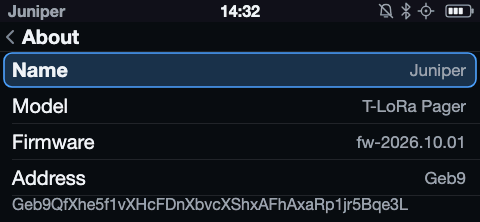
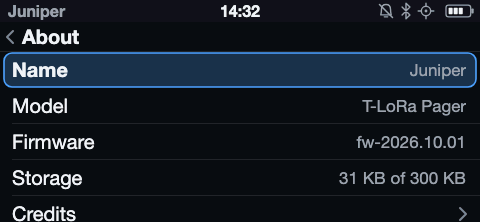
Drop the address from About; draw Credits entries through Lazy
Device › Identity already shows the address, and a hint beside its own
address says nothing more. Credits entries, wrapped text that can run
past the screen, are kept as their strings rather than as render trees.

LLM: Claude Opus 5.5

diff --git a/crates/umsh-ux-communicator/src/ui/about.rs b/crates/umsh-ux-communicator/src/ui/about.rs
@@ -2,6 +2,7 @@
 //! firmware is built from.
 
 use buoyant::focus::FocusKey;
+use buoyant::view::Lazy;
 use buoyant::view::prelude::*;
 use embedded_graphics::pixelcolor::Rgb565;
 use heapless::{String, Vec};
@@ -13,8 +14,6 @@ use crate::nav::keys;
 use crate::{font, models, theme};
 
 const ROW: u32 = 36;
-/// The address's lines, and their inset.
-const ADDRESS: u32 = 22;
 const INSET: u32 = 12;
 const RADIUS: u16 = 8;
 
@@ -60,7 +59,6 @@ static INDICES: [usize; LICENSES] = {
 pub fn view(state: &State) -> impl View<Rgb565, State> + use<> {
     let m = state.metrics();
     let about = state.node.about();
-    let address = state.node.address();
     let mut storage: String<24> = String::new();
     _ = core::fmt::write(
         &mut storage,
@@ -78,17 +76,6 @@ pub fn view(state: &State) -> impl View<Rgb565, State> + use<> {
                 models::name(state.board.model).unwrap_or_default(),
             ),
             readout("Firmware", keys::ABOUT_FIRMWARE, state.firmware),
-            readout("Address", keys::ABOUT_ADDRESS, &about.hint),
-            super::address(
-                &address,
-                &font::REGULAR,
-                m.small,
-                theme::TEXT_SECONDARY,
-                m.width - 2 * INSET,
-                ADDRESS,
-            )
-            .padding(Edges::Leading, INSET)
-            .padding(Edges::Bottom, 4),
             readout("Storage", keys::ABOUT_STORAGE, &storage),
             row(
                 m,
@@ -144,8 +131,6 @@ pub fn credits(state: &State) -> impl View<Rgb565, State> + use<> {
 
 /// An entry of the credits: `name`, and below it `body`'s lines, which
 /// wrap. It takes focus so the wheel passes through it.
-// Out of line, as `setting::row` is, against the Xtensa back end's failure.
-#[inline(never)]
 fn entry(
     m: &'static Metrics,
     name: &'static str,
@@ -154,53 +139,60 @@ fn entry(
 ) -> impl View<Rgb565, State> + use<> {
     Button::new(
         |_: &mut State| {},
-        move |button: ButtonState| {
-            let focused = button.is_focused();
-            let face = if focused { &font::BOLD } else { &font::REGULAR };
-            VStack::new((
-                Text::new(name, face)
-                    .with_font_size(m.body)
-                    .foreground_color(theme::TEXT),
-                Text::new(body, &font::REGULAR)
-                    .with_font_size(m.small)
-                    .foreground_color(theme::TEXT_SECONDARY),
-            ))
-            .with_alignment(HorizontalAlignment::Leading)
-            .with_spacing(2)
-            .flex_infinite_width(HorizontalAlignment::Leading)
-            .hint_background_color(if focused {
-                theme::FOCUS
-            } else {
-                theme::BACKGROUND
-            })
-            .padding(Edges::Horizontal, INSET - 4)
-            .padding(Edges::Vertical, 6)
-            .background(
-                Alignment::Center,
-                focused.then(|| {
-                    ZStack::new((
-                        RoundedRectangle::new(RADIUS).foreground_color(theme::FOCUS),
-                        RoundedRectangle::new(RADIUS)
-                            .stroked(2)
-                            .foreground_color(theme::ACCENT),
-                    ))
-                }),
-            )
-            .padding(Edges::Horizontal, 4)
-            .padding(Edges::Vertical, 1)
-            .overlay(
-                Alignment::Bottom,
-                (!focused).then(|| {
-                    Rectangle
-                        .foreground_color(theme::LINE)
-                        .frame()
-                        .with_height(1)
-                        .padding(Edges::Leading, INSET)
-                }),
-            )
-        },
+        move |button: ButtonState| Lazy::new((name, body, button.is_focused(), m), entry_look),
     )
     .focus_key(key)
+}
+
+/// What an entry of the credits draws.
+///
+/// Built from its text each time it is drawn ([`Lazy`]): kept in the
+/// render trees, every entry's would outweigh the rest of the screen.
+fn entry_look(
+    &(name, body, focused, m): &(&'static str, &'static str, bool, &'static Metrics),
+) -> impl View<Rgb565, ()> + use<> {
+    let face = if focused { &font::BOLD } else { &font::REGULAR };
+    VStack::new((
+        Text::new(name, face)
+            .with_font_size(m.body)
+            .foreground_color(theme::TEXT),
+        Text::new(body, &font::REGULAR)
+            .with_font_size(m.small)
+            .foreground_color(theme::TEXT_SECONDARY),
+    ))
+    .with_alignment(HorizontalAlignment::Leading)
+    .with_spacing(2)
+    .flex_infinite_width(HorizontalAlignment::Leading)
+    .hint_background_color(if focused {
+        theme::FOCUS
+    } else {
+        theme::BACKGROUND
+    })
+    .padding(Edges::Horizontal, INSET - 4)
+    .padding(Edges::Vertical, 6)
+    .background(
+        Alignment::Center,
+        focused.then(|| {
+            ZStack::new((
+                RoundedRectangle::new(RADIUS).foreground_color(theme::FOCUS),
+                RoundedRectangle::new(RADIUS)
+                    .stroked(2)
+                    .foreground_color(theme::ACCENT),
+            ))
+        }),
+    )
+    .padding(Edges::Horizontal, 4)
+    .padding(Edges::Vertical, 1)
+    .overlay(
+        Alignment::Bottom,
+        (!focused).then(|| {
+            Rectangle
+                .foreground_color(theme::LINE)
+                .frame()
+                .with_height(1)
+                .padding(Edges::Leading, INSET)
+        }),
+    )
 }
 
 /// `bytes` in kilobytes, or in megabytes to a tenth from a megabyte up.

diff --git a/docs/ux/src/hardware/mockups/tlora-pager-src/generate.py b/docs/ux/src/hardware/mockups/tlora-pager-src/generate.py
@@ -2620,11 +2620,6 @@ def screen_about():
     for i, (label, val) in enumerate(rows):
         body += setting_row(0, y, label, val, focused=i == 0)
         y += 36
-    address = b58(44, 3)
-    body += setting_row(0, y, "Address", address[:4])
-    y += 36
-    body.append(T(12, y + 14, address, F_SMALL, C["text2"]))
-    y += 26
     body += setting_row(0, y, "Storage", "31 KB of 300 KB")
     y += 36
     body += setting_row(0, y, "Credits", None, chev=True)
@@ -3301,8 +3296,8 @@ def main(path, native_dir=None):
         ]),
         ("About", [
             ("About", screen_about(),
-             "Device › About. The address is whole under its hint; Storage "
-             "is the chats’ room used of all they may keep."),
+             "Device › About. Storage is the chats’ room used of all they "
+             "may keep."),
             ("Credits", screen_credits(),
              "The firmware’s parts with their licenses, then the Rust "
              "crates it links, grouped by license. An entry longer than the "

diff --git a/crates/umsh-communicator/src/settings.rs b/crates/umsh-communicator/src/settings.rs
@@ -30,7 +30,7 @@
 //! by the Device's Store; see
 //! [`ChannelCrypto::starting_keys`](crate::ChannelCrypto::starting_keys)).
 
-use umsh_core::{ChannelTag, NodeHint};
+use umsh_core::ChannelTag;
 use umsh_ulcp::ids::{cap, keyboard_aids, prop, saved};
 use umsh_ulcp::profiles::VETTED;
 use umsh_ulcp_admin::descriptor::Value;
@@ -458,18 +458,6 @@ impl<P: LocalPort> Settings<P> {
     /// The device identity's address.
     pub fn address(&self) -> String<44> {
         self.key().map(address).unwrap_or_default()
-    }
-
-    /// The device identity's hint, as its address begins.
-    pub fn hint(&self) -> String<8> {
-        let mut hint = String::new();
-        if let Some(key) = self.key() {
-            _ = core::fmt::write(
-                &mut hint,
-                format_args!("{}", NodeHint([key[0], key[1], key[2]])),
-            );
-        }
-        hint
     }
 
     /// The device identity's peers: what `PROP_DEV_PEERS` holds once the

diff --git a/crates/umsh-ux-communicator/src/nav.rs b/crates/umsh-ux-communicator/src/nav.rs
@@ -142,9 +142,8 @@ pub mod keys {
     pub const ABOUT_NAME: FocusKey = FocusKey(0x2600_0000);
     pub const ABOUT_MODEL: FocusKey = FocusKey(0x2600_0001);
     pub const ABOUT_FIRMWARE: FocusKey = FocusKey(0x2600_0002);
-    pub const ABOUT_ADDRESS: FocusKey = FocusKey(0x2600_0003);
-    pub const ABOUT_STORAGE: FocusKey = FocusKey(0x2600_0004);
-    pub const CREDITS: FocusKey = FocusKey(0x2600_0005);
+    pub const ABOUT_STORAGE: FocusKey = FocusKey(0x2600_0003);
+    pub const CREDITS: FocusKey = FocusKey(0x2600_0004);
     /// The Battery screen's readouts, in order.
     pub const BATTERY_LEVEL: FocusKey = FocusKey(0x2200_0000);
     pub const BATTERY_CHARGE: FocusKey = FocusKey(0x2200_0001);

diff --git a/crates/umsh-communicator/src/node.rs b/crates/umsh-communicator/src/node.rs
@@ -731,7 +731,6 @@ impl<P: LocalPort, S: ChatStore> Node for CommunicatorNode<P, S> {
     fn about(&self) -> About {
         let usage = self.chats.borrow().store().usage();
         About {
-            hint: self.settings.borrow().hint(),
             stored: u32::try_from(usage.bytes).unwrap_or(u32::MAX),
             quota: u32::try_from(usage.quota).unwrap_or(u32::MAX),
         }

diff --git a/crates/umsh-ux-communicator/src/model.rs b/crates/umsh-ux-communicator/src/model.rs
@@ -216,8 +216,6 @@ pub struct Statistics {
 /// What Device › About reads of the node.
 #[derive(Clone, Debug, Default, PartialEq, Eq)]
 pub struct About {
-    /// The node's hint, as an address begins.
-    pub hint: String<8>,
     /// Octets the chats keep, of the most they may.
     pub stored: u32,
     pub quota: u32,

diff --git a/crates/umsh-ux-communicator/src/fixture.rs b/crates/umsh-ux-communicator/src/fixture.rs
@@ -1865,7 +1865,6 @@ impl Node for Store {
     /// A tenth of the chats' room used.
     fn about(&self) -> About {
         About {
-            hint: String::try_from("Geb9").unwrap_or_default(),
             stored: 31_744,
             quota: 307_200,
         }

diff --git a/docs/ux/src/classes/communicators.md b/docs/ux/src/classes/communicators.md
@@ -155,7 +155,6 @@ since power-on are not read off the clock and may still show.
 - **Name** and **Model**, as the device and its board give them.
 - **Firmware** is the release tag (`fw-YYYY.MM.NN`), or the commit for a
   development build. No build date: builds are reproducible.
-- **Address** shows the hint, with the whole 44-character address under it.
 - **Storage** is the chats' room used of all they may keep.
 - **Credits** lists the firmware's parts with their licenses: UMSH, Twemoji
   (with its copyright, its license, and that the art is rasterized,

diff --git a/docs/emoji-support-plan.md b/docs/emoji-support-plan.md
@@ -404,8 +404,6 @@ one row each:
 - **Model**: the board, e.g. LILYGO T-LoRa Pager.
 - **Firmware**: the release tag (`fw-YYYY.MM.NN`), or the commit for a
   development build. No build date, so builds stay reproducible.
-- **Address**: the node's address in its fixed 44-character base58 form,
-  and its hint.
 - **Storage**: chat store used of total.
 - **Credits**: opens the credits screen.
 
